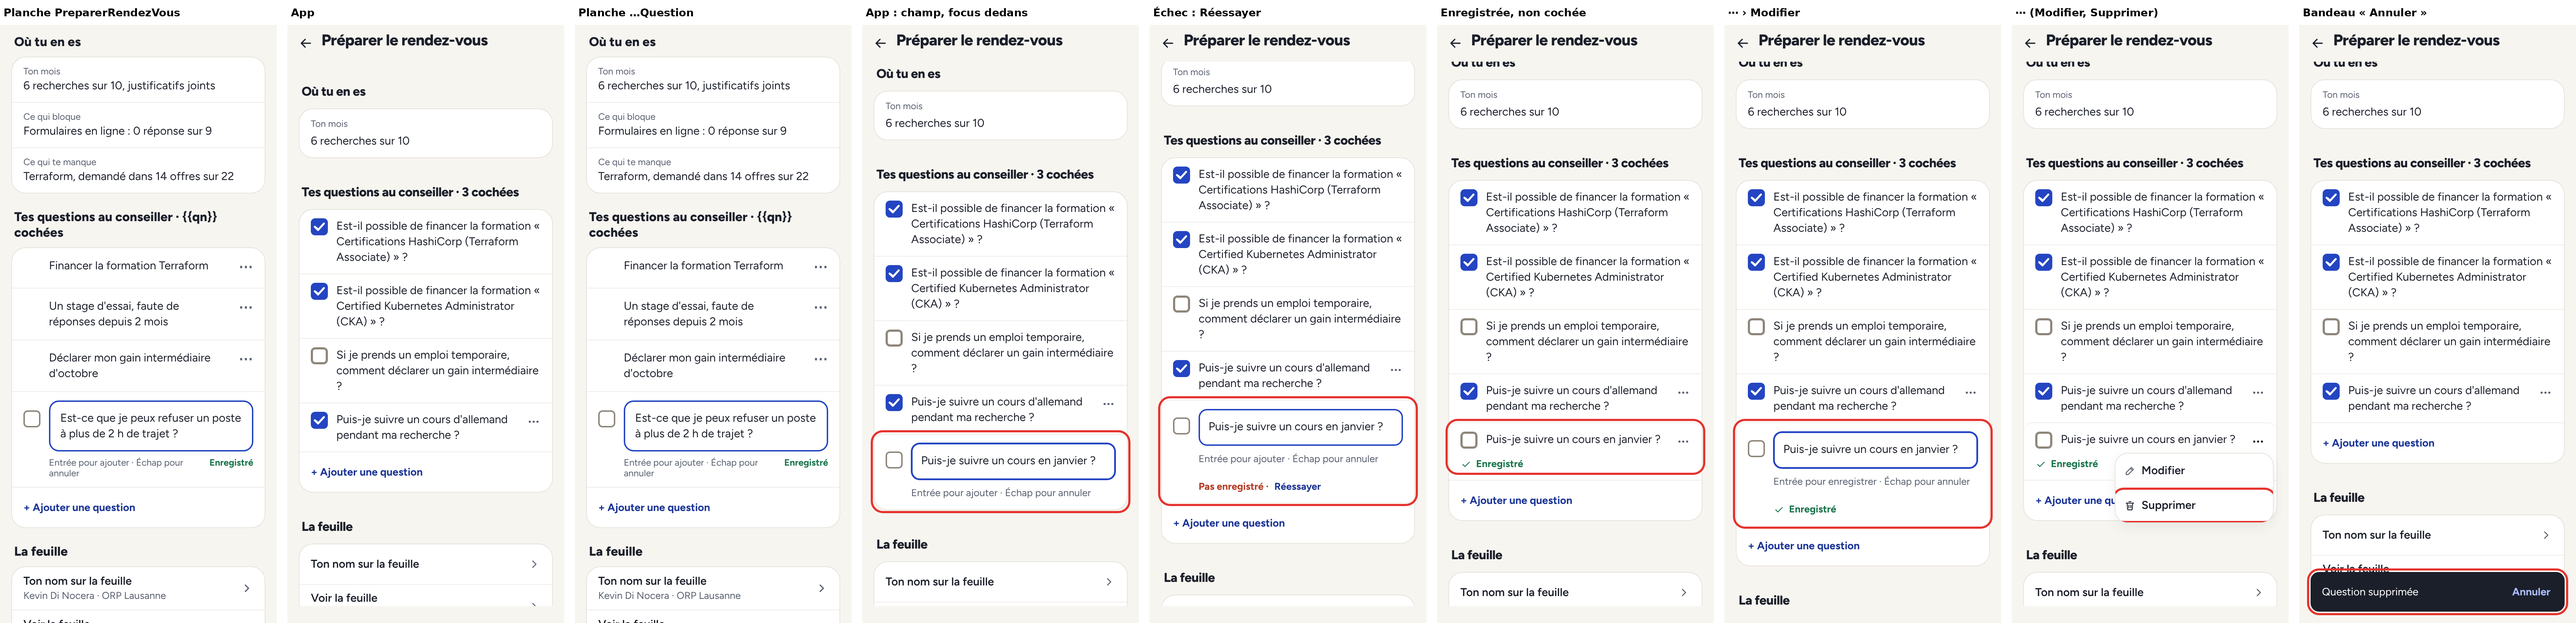
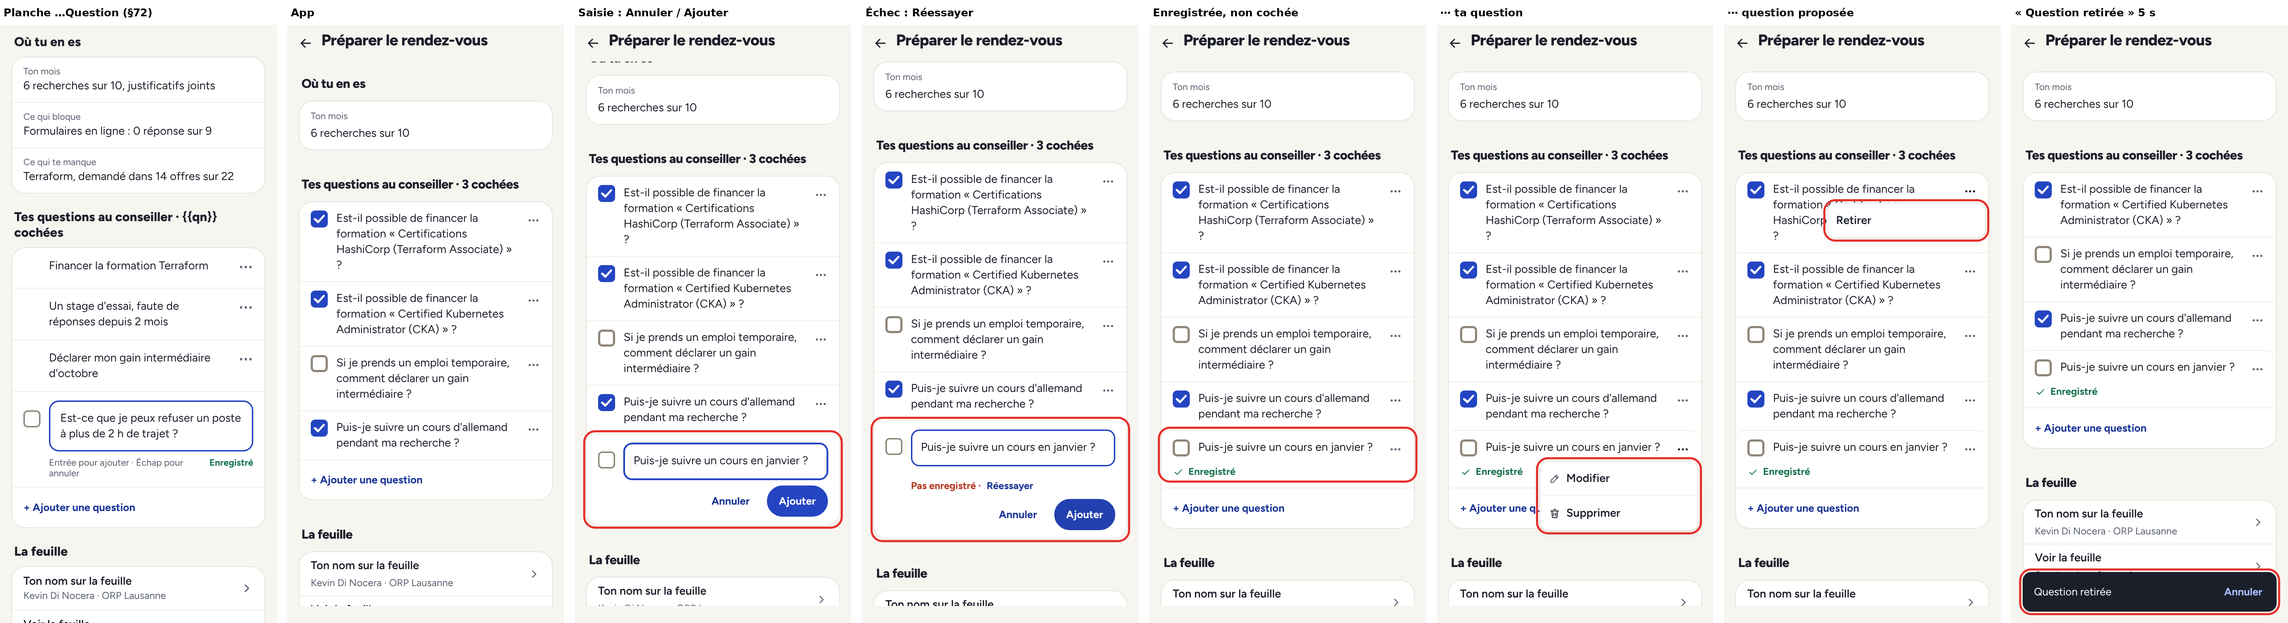
Préparer le rendez-vous : Retirer une question proposée, Annuler/Ajouter sous le champ (§72b), FeuilleNom sans « Tout est enregistré… » (§72g)
Le serveur garde une question proposée retirée (removed) et ne la propose plus
pour ce rendez-vous, même quand la page renvoie la liste sans elle.
Bandeau « Question retirée » 5 s (useUndo accepte une durée).

Claude-Session: https://claude.ai/code/session_014TQZXHj7P5gWtzC2XFxsji

diff --git a/frontend/src/components/MeetingPrepSheet.vue b/frontend/src/components/MeetingPrepSheet.vue
@@ -57,7 +57,7 @@ const field = ref<HTMLTextAreaElement | null>(null);
 let cancelled = false;
 const isOwn = (q: Question): boolean => q.key.startsWith("custom:");
 const shown = computed(() => {
-  const list = props.questions.filter((q) => !hidden.has(q.key));
+  const list = props.questions.filter((q) => !hidden.has(q.key) && !q.removed);
   const extra = added.value;
   return extra && !list.some((q) => q.key === extra.key) ? [...list, extra] : list;
 });
@@ -161,6 +161,28 @@ function remove(question: Question): void {
     },
   });
 }
+// « ⋯ › Retirer » une question proposée par jobA1 (Kevin, 18.11, option A) : le serveur la garde comme retirée
+// et ne la propose plus pour ce rendez-vous ; « Annuler » pendant 5 s.
+function retire(question: Question): void {
+  hidden.add(question.key);
+  void offerUndo({
+    message: "Question retirée",
+    ms: 5000,
+    commit: async () => {
+      const list = props.questions.map((q) => (q.key === question.key ? { ...q, checked: false, removed: true } : q));
+      const ok = props.save ? await props.save(list) : false;
+      if (ok) hidden.delete(question.key);
+      return ok;
+    },
+    restore: () => {
+      hidden.delete(question.key);
+    },
+  });
+}
+// « Annuler » sous le champ : touché, il ne doit pas d'abord enregistrer en faisant perdre le focus au champ.
+function holdCancel(): void {
+  cancelled = true;
+}
 function onKey(event: KeyboardEvent): void {
   if (event.key === "Enter") {
     event.preventDefault();
@@ -262,13 +284,32 @@ function cal(iso: string): { day: number; month: number } {
                 @keydown="onKey"
                 @blur="leave"
               />
-              <div class="prep-help">
-                <span>Entrée pour {{ question.key === added?.key ? "ajouter" : "enregistrer" }} · Échap pour annuler</span>
+              <div class="prep-actions">
                 <FieldSaveStatus
                   v-if="states[question.key] && states[question.key] !== 'idle'"
+                  class="prep-actions-status"
                   :state="states[question.key]!"
                   @retry="retry"
                 />
+                <button
+                  type="button"
+                  class="prep-cancel"
+                  data-test="rdv-question-cancel"
+                  @pointerdown="holdCancel"
+                  @mousedown.prevent
+                  @click="cancel"
+                >
+                  Annuler
+                </button>
+                <button
+                  type="button"
+                  class="primary prep-submit"
+                  data-test="rdv-question-submit"
+                  @mousedown.prevent
+                  @click="leave"
+                >
+                  {{ question.key === added?.key ? "Ajouter" : "Enregistrer" }}
+                </button>
               </div>
             </div>
           </div>
@@ -286,7 +327,15 @@ function cal(iso: string): { day: number; month: number } {
               <span>{{ question.text }}</span>
             </label>
             <MoreMenu
-              v-if="isOwn(question)"
+              v-if="!isOwn(question)"
+              class="prep-more"
+              :items="[{ label: 'Retirer', test: `rdv-question-retire-${question.key}`, run: () => retire(question) }]"
+              :inline="false"
+              label="Actions sur la question"
+              :test-id="`rdv-question-more-${question.key}`"
+            />
+            <MoreMenu
+              v-else
               class="prep-more"
               :items="[
                 { label: 'Modifier', test: `rdv-question-edit-${question.key}`, run: () => startEdit(question), icon: 'pencil' },
@@ -323,13 +372,31 @@ function cal(iso: string): { day: number; month: number } {
                 @keydown="onKey"
                 @blur="leave"
               />
-              <div class="prep-help">
-                <span>Entrée pour ajouter · Échap pour annuler</span>
+              <div class="prep-actions">
+                <button
+                  type="button"
+                  class="prep-cancel"
+                  data-test="rdv-question-cancel"
+                  @pointerdown="holdCancel"
+                  @mousedown.prevent
+                  @click="cancel"
+                >
+                  Annuler
+                </button>
+                <button
+                  type="button"
+                  class="primary prep-submit"
+                  data-test="rdv-question-submit"
+                  @mousedown.prevent
+                  @click="leave"
+                >
+                  Ajouter
+                </button>
               </div>
             </div>
           </div>
         </li>
-        <li v-else>
+        <li v-else-if="!editing">
           <button
             type="button"
             class="prep-add"
@@ -418,9 +485,10 @@ function cal(iso: string): { day: number; month: number } {
 .prep-edit > .prep-box { margin-top: var(--space-3); }
 .prep-edit-body { flex: 1; min-width: 0; }
 .prep-field { display: block; box-sizing: border-box; width: 100%; min-height: var(--pp-field-h); padding: var(--space-3); border: 2px solid var(--primary-graphic); border-radius: var(--space-3); background: var(--surface); color: var(--text); font: inherit; font-size: var(--font-body); line-height: var(--pp-lh); resize: none; outline: 0; }
-.prep-help { display: flex; flex-wrap: wrap; justify-content: space-between; gap: var(--space-2); margin-top: var(--space-2); font-size: var(--font-small); color: var(--text-secondary); }
-.prep-help > span:first-child { flex: 1 1 auto; min-width: 0; }
-.prep-help > :deep(*:not(:first-child)) { flex: none; white-space: nowrap; }
+.prep-actions { display: flex; flex-wrap: wrap; align-items: center; justify-content: flex-end; gap: var(--space-2); margin-top: var(--space-2); }
+.prep-actions-status { flex: 1 0 100%; min-width: 0; }
+.prep-cancel, .prep-submit { flex: none; min-height: var(--target-min); padding: 0 var(--space-4); border-radius: var(--target-min); font: inherit; font-size: var(--font-label); font-weight: var(--weight-bold); cursor: pointer; }
+.prep-cancel { border: 0; background: none; color: var(--primary-text); }
 .prep-box { flex: none; box-sizing: border-box; width: var(--pp-check); height: var(--pp-check); border-radius: var(--pp-check-radius); box-shadow: inset 0 0 0 2px var(--field-border); }
 .prep-box.on { box-shadow: none; background: var(--primary-graphic); }
 .prep-status { margin: 0 var(--space-4) var(--space-3); }

diff --git a/frontend/src/views/OrpMeetingView.phone.test.ts b/frontend/src/views/OrpMeetingView.phone.test.ts
@@ -211,11 +211,14 @@ describe("Rendez-vous sur téléphone", () => {
       expect(PUT).not.toHaveBeenCalled();
     });
 
-    it("« ⋯ › Modifier » ouvre le champ d’une question à toi ; toucher le texte la coche ; les proposées n’ont pas de ⋯", async () => {
+    it("« ⋯ › Modifier » ouvre le champ d’une question à toi ; toucher le texte la coche ; les proposées n’ont que « Retirer »", async () => {
       serveWith([...PREP.questions, OWN]);
       const { wrapper } = await openPrep();
       expect(wrapper.find("[data-test=rdv-question-edit-intermediate]").exists()).toBe(false);
-      expect(wrapper.find("[data-test=rdv-question-more-intermediate]").exists()).toBe(false);
+      await wrapper.get("[data-test=rdv-question-more-intermediate]").trigger("click");
+      expect(wrapper.find("[data-test=rdv-question-retire-intermediate]").exists()).toBe(true);
+      expect(wrapper.find("[data-test=rdv-question-edit-intermediate]").exists()).toBe(false);
+      expect(wrapper.find("[data-test=rdv-question-delete-intermediate]").exists()).toBe(false);
       await wrapper.get("[data-test='rdv-question-custom:1']").setValue(true);
       expect(PUT).toHaveBeenCalledTimes(1);
       expect(sent()[2]).toMatchObject({ key: "custom:1", checked: true });
@@ -244,6 +247,46 @@ describe("Rendez-vous sur téléphone", () => {
       expect(PUT).toHaveBeenCalledTimes(2);
       expect(wrapper.find("[data-test=rdv-question-field]").exists()).toBe(false);
       expect(wrapper.get("[data-test=rdv-prep-questions]").text()).toContain("Enregistré");
+    });
+
+    it("pendant la saisie : « Annuler » et « Ajouter » sous le champ, plus de « + Ajouter une question »", async () => {
+      serveWith(PREP.questions);
+      const { wrapper } = await openPrep();
+      await wrapper.get("[data-test=rdv-question-add]").trigger("click");
+      expect(wrapper.find("[data-test=rdv-question-add]").exists()).toBe(false);
+      expect(wrapper.get("[data-test=rdv-prep-questions]").text()).not.toContain("Entrée pour");
+      await wrapper.get("[data-test=rdv-question-field]").setValue("Brouillon");
+      await wrapper.get("[data-test=rdv-question-cancel]").trigger("pointerdown");
+      await wrapper.get("[data-test=rdv-question-field]").trigger("blur");
+      await wrapper.get("[data-test=rdv-question-cancel]").trigger("click");
+      await flushPromises();
+      expect(PUT).not.toHaveBeenCalled();
+      expect(wrapper.find("[data-test=rdv-question-field]").exists()).toBe(false);
+      await wrapper.get("[data-test=rdv-question-add]").trigger("click");
+      await wrapper.get("[data-test=rdv-question-field]").setValue("Ma question");
+      await wrapper.get("[data-test=rdv-question-submit]").trigger("click");
+      await flushPromises();
+      expect(PUT).toHaveBeenCalledTimes(1);
+      expect(sent()[2]).toMatchObject({ text: "Ma question", checked: false });
+    });
+
+    it("« ⋯ › Retirer » une question proposée : « Question retirée » 5 s, puis le serveur la garde comme retirée", async () => {
+      vi.useFakeTimers();
+      try {
+        serveWith(PREP.questions);
+        const { wrapper } = await openPrep();
+        await wrapper.get("[data-test=rdv-question-more-intermediate]").trigger("click");
+        await wrapper.get("[data-test=rdv-question-retire-intermediate]").trigger("click");
+        expect(wrapper.find("[data-test=rdv-question-intermediate]").exists()).toBe(false);
+        expect(wrapper.get("[data-test=triage-toast]").text()).toContain("Question retirée");
+        await vi.advanceTimersByTimeAsync(4900);
+        expect(PUT).not.toHaveBeenCalled();
+        await vi.advanceTimersByTimeAsync(200);
+        await flushPromises();
+        expect(sent()).toEqual([PREP.questions[0], { ...PREP.questions[1], checked: false, removed: true }]);
+      } finally {
+        vi.useRealTimers();
+      }
     });
 
     it("« ⋯ › Supprimer » cache la ligne, « Annuler » la remet ; sans annuler, la liste part sans elle", async () => {
@@ -292,7 +335,8 @@ describe("Rendez-vous sur téléphone", () => {
     expect(name.props("open")).toBe(true);
     // Une seule page à la fois : la préparation laisse la place.
     expect(prep.props("open")).toBe(false);
-    expect(name.text()).toContain("Tout est enregistré dès que tu quittes un champ");
+    // §72g (Kevin, 18.11) : plus de phrase « Tout est enregistré… » sous le titre.
+    expect(name.text()).not.toContain("Tout est enregistré");
     expect(name.findAll("label").map((l) => l.text())).toEqual(["Prénom et nom", "Ton conseiller ORP", "Office régional"]);
     expect((name.get("[data-test=feuille-nom-name]").element as HTMLInputElement).value).toBe("Camille Exemple");
     expect((name.get("[data-test=feuille-nom-advisor]").element as HTMLInputElement).value).toBe("M. Favre");

diff --git a/frontend/src/components/FeuilleNomSheet.vue b/frontend/src/components/FeuilleNomSheet.vue
@@ -46,9 +46,6 @@ function leave(event: Event): void {
     data-test="feuille-nom"
     @close="emit('close')"
   >
-    <p class="feuille-nom-note">
-      Tout est enregistré dès que tu quittes un champ
-    </p>
     <form
       class="feuille-nom-fields"
       @submit.prevent
@@ -86,15 +83,10 @@ function leave(event: Event): void {
 </template>
 
 <style scoped>
-/* Planche FeuilleNom : pastille neutre de 30 px (13 px, graisse 600) ; cartes blanches, trait 1 px, rayon 20, 16 px de
+/* Planche FeuilleNom (sans la phrase « Tout est enregistré… », §72g) : cartes blanches, trait 1 px, rayon 20, 16 px de
    marge intérieure, 12 px entre elles ; libellé 13 px gris au-dessus d'un champ de 52 px, rayon 14, texte 17 px. */
-.feuille-nom { --fn-note-top: 6px; --fn-note-bottom: 14px; --fn-note-pad: 5px; --fn-card-radius: 20px; --fn-field-h: 52px; --fn-field-pad: 14px; --fn-field-radius: 14px; }
+.feuille-nom { --fn-card-radius: 20px; --fn-field-h: 52px; --fn-field-pad: 14px; --fn-field-radius: 14px; }
 .feuille-nom :deep(.sheet-body) { gap: 0; padding-inline: var(--space-4); }
-.feuille-nom-note {
-  justify-self: start; display: inline-flex; align-items: center; min-height: 30px; margin: var(--fn-note-top) 0 var(--fn-note-bottom); padding: var(--fn-note-pad) var(--space-3);
-  border-radius: var(--radius-pill); background: var(--surface-muted); color: var(--text-lead);
-  font-size: calc(var(--font-small) - 1px); font-weight: var(--weight-semibold);
-}
 .feuille-nom-fields { display: grid; gap: var(--space-3); margin: 0; }
 .feuille-nom-card { padding: var(--space-4); border: 1px solid var(--line); border-radius: var(--fn-card-radius); background: var(--surface); }
 .feuille-nom-label { display: block; font-size: calc(var(--font-small) - 1px); color: var(--text-secondary); }

diff --git a/frontend/src/composables/useUndo.ts b/frontend/src/composables/useUndo.ts
@@ -13,6 +13,8 @@ export interface UndoOffer {
   restore: () => Promise<void> | void;
   // « Voir » à côté d'« Annuler » (K5, Kevin le 17.11) : valide l'action, puis mène là où l'élément est parti.
   see?: () => void;
+  // Durée du bandeau quand elle n'est pas de 6 s (« Question retirée » : 5 s, Kevin le 18.11).
+  ms?: number;
 }
 
 const pending = ref<(UndoOffer & { id: number }) | null>(null);
@@ -21,7 +23,7 @@ let seq = 0;
 
 function schedule(): void {
   clearTimeout(timer);
-  timer = setTimeout(() => void flush(), UNDO_MS);
+  timer = setTimeout(() => void flush(), pending.value?.ms ?? UNDO_MS);
 }
 
 async function flush(keepalive = false): Promise<void> {

diff --git a/frontend/src/api/schema.d.ts b/frontend/src/api/schema.d.ts
@@ -8303,6 +8303,8 @@ export interface components {
              * @default false
              */
             checked: boolean;
+            /** Removed */
+            removed?: boolean | null;
         };
         /** QuestionStatOut */
         QuestionStatOut: {

diff --git a/backend/src/jobbot/api/routes/orp_meeting.py b/backend/src/jobbot/api/routes/orp_meeting.py
@@ -70,6 +70,9 @@ class QuestionIO(BaseModel):
     key: Annotated[str, Field(max_length=80)]
     text: Annotated[str, Field(max_length=300)]
     checked: bool = False
+    # Une question proposée par jobA1 que tu as retirée (menu ⋯, « Retirer », Kevin le 18.11) :
+    # gardée pour que jobA1 ne la propose plus pour ce rendez-vous. Jamais renvoyée dans la page.
+    removed: bool | None = None
 
 
 class QuestionsIn(BaseModel):
@@ -155,7 +158,7 @@ async def _meeting(session: AsyncSession, found: OrpMeeting | None) -> MeetingOu
         asked=[
             str(q.get("text"))
             for q in questions
-            if isinstance(q, dict) and q.get("checked") and q.get("text")
+            if isinstance(q, dict) and q.get("checked") and q.get("text") and not q.get("removed")
         ],
         next_starts_at=await outcomes.following(session, found),
         sheet_text=found.sheet_text,
@@ -231,10 +234,20 @@ async def save_orp_meeting_questions(request: Request, body: QuestionsIn) -> Mee
         found = await service.next_meeting(session, datetime.now(UTC))
         if found is None:
             raise HTTPException(status.HTTP_409_CONFLICT, "indique d'abord la date du rendez-vous")
-        found.questions = [
-            q.model_dump()
+        sent = {q.key for q in body.questions}
+        # Les retraits déjà notés restent, même si la page ne les renvoie pas (elle ne les montre
+        # plus).
+        before = found.questions if isinstance(found.questions, list) else []
+        kept = [
+            q
+            for q in before
+            if isinstance(q, dict) and q.get("removed") and str(q.get("key")) not in sent
+        ]
+        found.questions = kept + [
+            q.model_dump() | ({"checked": False} if q.removed else {})
             for q in body.questions
-            if q.text.strip() or not q.key.startswith("custom:")
+            if (q.text.strip() or not q.key.startswith("custom:"))
+            and not (q.removed and q.key.startswith("custom:"))
         ]
     return await _page(runtime)
 

diff --git a/backend/tests/test_orp_meeting.py b/backend/tests/test_orp_meeting.py
@@ -159,6 +159,23 @@ async def test_meeting_questions_and_sheet(client: AsyncClient, rt: Runtime) -> 
         "Si je prends un emploi temporaire, comment déclarer un gain intermédiaire ?",
         "Puis-je travailler à 80 % ?",
     ]
+    # Menu ⋯, « Retirer » (Kevin, 18.11) : une question proposée retirée ne revient plus,
+    # même quand la page renvoie ensuite la liste sans elle.
+    shown = page["preparation"]["questions"]
+    removed = next(q for q in shown if q["key"] == "intermediate")
+    rest = [q for q in shown if q["key"] != "intermediate"]
+    page = (
+        await client.put(
+            "/api/orp-meeting/questions",
+            json={"questions": [*rest, {**removed, "removed": True}]},
+        )
+    ).json()
+    keys = [q["key"] for q in page["preparation"]["questions"]]
+    assert "intermediate" not in keys and "custom:1" in keys
+    assert all(not q.get("removed") for q in page["preparation"]["questions"])
+    assert page["meeting"]["asked"] == ["Puis-je travailler à 80 % ?"]
+    page = (await client.put("/api/orp-meeting/questions", json={"questions": rest})).json()
+    assert "intermediate" not in [q["key"] for q in page["preparation"]["questions"]]
     assert any(o["text"].startswith("Rendez-vous le ") for o in page["preparation"]["obligations"])
     # Demain : la page Aujourd'hui le rappelle.
     today = (await client.get("/api/today")).json()

diff --git a/backend/src/jobbot/orp/meeting.py b/backend/src/jobbot/orp/meeting.py
@@ -260,15 +260,21 @@ async def _suggested(
 
 
 def merge(suggested: list[Question], saved: list[dict[str, Any]]) -> list[Question]:
-    """Les questions proposées, avec ce que tu as coché ou décoché, puis les tiennes."""
+    """Les questions proposées (sauf celles retirées), cochées ou non, puis les tiennes."""
     kept = {str(q.get("key")): q for q in saved if isinstance(q, dict)}
     merged = []
     for question in suggested:
+        if kept.get(question.key, {}).get("removed"):
+            continue
         if question.key in kept:
             question.checked = bool(kept[question.key].get("checked"))
         merged.append(question)
     for key, entry in kept.items():
-        if key.startswith("custom:") and str(entry.get("text", "")).strip():
+        if (
+            key.startswith("custom:")
+            and str(entry.get("text", "")).strip()
+            and not entry.get("removed")
+        ):
             merged.append(Question(key, str(entry["text"]).strip(), bool(entry.get("checked"))))
     return merged
 

diff --git a/changelog.d/preparer-rendez-vous-retirer.md b/changelog.d/preparer-rendez-vous-retirer.md
@@ -1,0 +1,1 @@
+Préparer le rendez-vous (téléphone) : « Annuler » et « Ajouter » sous le champ d'une nouvelle question (§72b), ⋯ « Retirer » sur les questions proposées par jobA1 (le serveur ne les remet plus), bandeau « Question retirée » 5 s ; FeuilleNom sans la phrase « Tout est enregistré… » (§72g)
